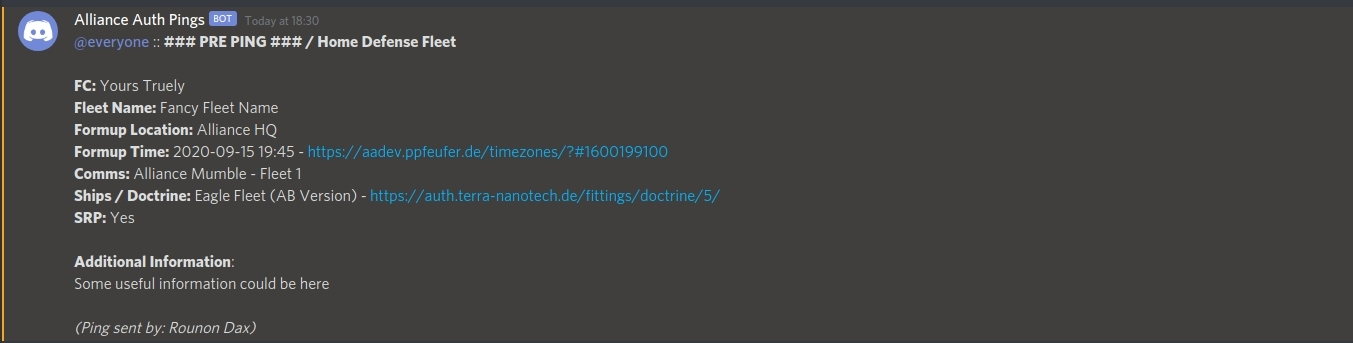
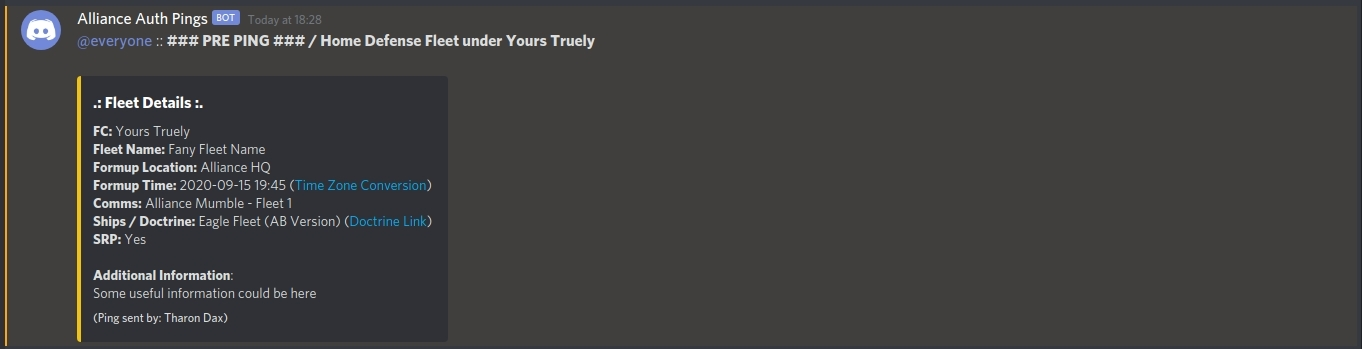
Discord pings are now always embedded

Changed region(s): [[0.0, 0.0292, 0.5277, 0.9913], [0.9933, 0.0292, 1.0, 0.9913]]

diff --git a/fleetpings/templates/fleetpings/form/pingChannel.html b/fleetpings/templates/fleetpings/form/pingChannel.html
@@ -5,6 +5,6 @@
 
 <optgroup label="Configured ping channels">
     {% for webhook in webhooks %}
-        <option value="{{ webhook.pk }}" data-webhook-embed="{{ webhook.is_embedded }}">{{ webhook.name }}</option>
+        <option value="{{ webhook.pk }}">{{ webhook.name }}</option>
     {% endfor %}
 </optgroup>

diff --git a/fleetpings/models.py b/fleetpings/models.py
@@ -371,18 +371,6 @@ class Webhook(models.Model):
         ),
     )
 
-    # Embedded ping (only for discord wenhooks)
-    is_embedded = models.BooleanField(
-        default=True,
-        db_index=True,
-        help_text=(
-            _(
-                "Whether this webhook's ping is embedded or not. "
-                "(This setting only effects Discord webhooks.)"
-            )
-        ),
-    )
-
     # Restrictions
     restricted_to_group = models.ManyToManyField(
         Group,

diff --git a/fleetpings/admin.py b/fleetpings/admin.py
@@ -223,7 +223,6 @@ class WebhookAdmin(admin.ModelAdmin):
         "_url",
         "_restricted_to_group",
         "notes",
-        "is_embedded",
         "is_enabled",
     )
 
@@ -232,7 +231,6 @@ class WebhookAdmin(admin.ModelAdmin):
 
     list_filter = (
         ("is_enabled", custom_filter(title="active")),
-        ("is_embedded", custom_filter(title="embedded")),
         ("restricted_to_group", custom_filter(title="restriction")),
     )
 

diff --git a/fleetpings/migrations/0010_remove_webhook_is_embedded.py b/fleetpings/migrations/0010_remove_webhook_is_embedded.py
@@ -1,0 +1,18 @@
+# Generated by Django 4.0.3 on 2022-04-16 14:01
+
+# Django
+from django.db import migrations
+
+
+class Migration(migrations.Migration):
+
+    dependencies = [
+        ("fleetpings", "0009_remove_webhook_type"),
+    ]
+
+    operations = [
+        migrations.RemoveField(
+            model_name="webhook",
+            name="is_embedded",
+        ),
+    ]

diff --git a/README.md b/README.md
@@ -127,15 +127,9 @@ Finally restart your AA supervisor services.
 
 ![AA View](https://raw.githubusercontent.com/ppfeufer/aa-fleetpings/master/fleetpings/docs/aa-view.jpg)
 
-### Discord Ping Examples
+### Discord Ping Example
 
-#### Not embedded
-
-![Discord Ping No Embed](https://raw.githubusercontent.com/ppfeufer/aa-fleetpings/master/fleetpings/docs/discord-ping.jpg)
-
-#### Embedded
-
-![Discord Ping Embed](https://raw.githubusercontent.com/ppfeufer/aa-fleetpings/master/fleetpings/docs/discord-ping-embedded.jpg)
+![Discord Ping](https://raw.githubusercontent.com/ppfeufer/aa-fleetpings/master/fleetpings/docs/discord-ping.jpg)
 
 
 ## Configuration

diff --git a/CHANGELOG.md b/CHANGELOG.md
@@ -16,6 +16,7 @@ and this project adheres to [Semantic Versioning](http://semver.org/).
 - Switched to Alliance Auth App Utils for logging
 - JavaScript cleaned up
 - Logic for ping text moved from JavaScript to Python/Django code
+- Discord pings are now always embedded
 
 ### Removed
 
